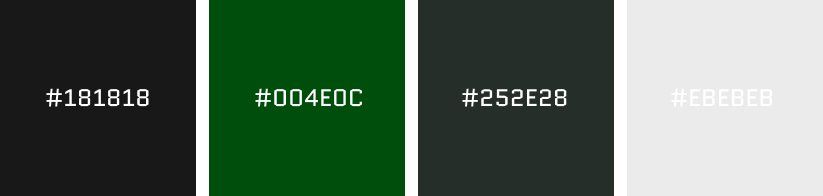
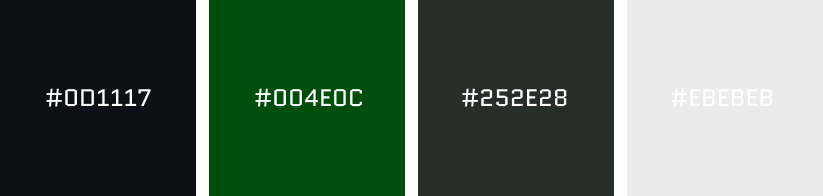
Updating colors

Changed region(s): [[0.0608, 0.4286, 0.1823, 0.551]]

diff --git a/README.md b/README.md
@@ -24,4 +24,4 @@ North7 styleguide reference and resources
 # Color
 
 ![Darktheme](colors.png) <br>
- #181818, #004E0C, #252E28, #EBEBEB
+ #0D1117, #004E0C, #252E28, #EBEBEB
